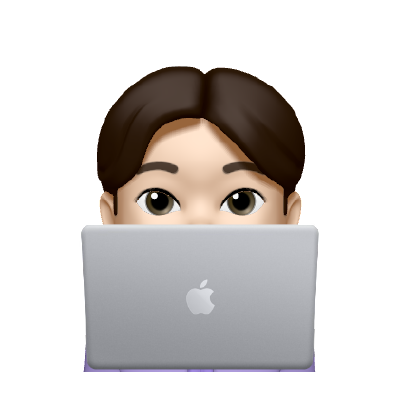
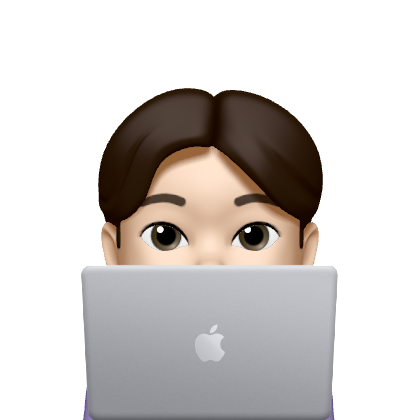
updated hero

Changed region(s): [[0.18, 0.15, 0.81, 1.0], [0.45, 0.69, 0.54, 0.87]]

diff --git a/index.html b/index.html
@@ -10,7 +10,7 @@
     
 
     <!-- Favicons -->
-    <link
+    <!-- <link
       rel="apple-touch-icon"
       sizes="180x180"
       href="assets/icons/apple-touch-icon.png"
@@ -20,7 +20,7 @@
       type="image/png"
       sizes="32x32"
       href="assets/icons/favicon-32x32.png"
-    />
+    /> -->
 
     <!-- Animate CSS CDN -->
     <link
@@ -28,7 +28,7 @@
       href="https://cdnjs.cloudflare.com/ajax/libs/animate.css/4.1.1/animate.min.css"
     />
 
-    <title>Jeremy Lee | Student</title>
+    <title>Jeremy Lee | Student </title>
     <link
       rel="shortcut icon"
       href="https://assets.stickpng.com/images/58e383a9204d556bbd97b149.png"
@@ -51,12 +51,49 @@
 
     <!-- Hero Section -->
     <section class="hero" id="about">
-      <div class="fade-text-from-left">
-        <msg>HI THERE 👋 I'M</msg>
-        <h1>Jeremy Lee</h1>
-        <h3 style="padding-top: 20px;">STUDENT 👨🎓 + DEVELOPER 👨💻</h3>
-        <p >I'm a creative thinker, passionate to learn more about UX/UI and Product Design!</p>
-      </div>
+      <section class="hero-left">
+        <div class="fade-text-from-left">
+          <div>
+            <msg>HELLO! </msg>
+            <img 
+              src="assets/images/wave.png" 
+              alt="wave animation"
+              loading="lazy"
+              class="wave-animation"
+            />
+              
+            <msg> I'M</msg>
+          </div>
+          
+          <h1>Jeremy Lee</h1>
+          <h3 style="padding-top: 20px; font-size: 20px">STUDENT 👨🎓 + DEVELOPER 👨💻</h3>
+          <!-- <div>
+            <msg>STUDENT </msg>
+            <img 
+              src="assets/images/student.png" 
+              alt="student emoji"
+              loading="lazy"
+              class="profession-emojis"
+            />
+              
+            <msg>DEVELOPER</msg>
+            <img 
+              src="assets/images/laptop.png" 
+              alt="developer emoji"
+              loading="lazy"
+              class="profession-emojis"
+            />
+          </div> -->
+          <p >I'm a creative thinker 🧠, passionate to learn about UX/UI 📱 and Product Design 🧪!</p>
+        </div>
+        <div class="hero-social-links">
+          <h3>yes</h3>
+          <h3>yes</h3>
+
+          <h3>yes</h3>
+
+        </div>
+      </section>
       <img
         src="assets/images/memoji.png"
         alt="pic of me"
@@ -65,7 +102,7 @@
       />
     </section>
 
-    <section class="hero">
+    <!-- <section class="hero">
       <div class="bio">
         <h2 class="bio-title">About Me</h2>
         <p class="bio-text">
@@ -119,7 +156,7 @@
           <li>More experience :)</li>
         </ul>
       </div>
-    </section>
+    </section> -->
     <!-- More about -->
 
     <!-- Skills section -->

diff --git a/assets/css/styles.css b/assets/css/styles.css
@@ -70,7 +70,6 @@ nav {
   justify-content: space-between;
   padding: 1.5rem 3.5rem;
   background-color: var(--nav-bg-color);
-  box-shadow: 0 3px 5px rgba(0, 0, 0, 0.1);
 }
 
 nav h1 {
@@ -142,12 +141,40 @@ msg {
   font-family: var(--nav-link-font);
 }
 
+
+
+.hero-social-links {
+  display: flex;
+  gap: 1rem;
+  padding-top: 10px;
+  animation: fadeIn 3s ease-out;
+}
+
+.wave-animation {
+  max-width: 2rem;
+  max-height: 2rem;
+}
+
+.hero .profession-emojis {
+  max-width: 1.75rem;
+  max-height: 1.75rem;
+  bottom: 0;
+}
+
 .fade-text-from-left {
   position: relative;
   white-space: nowrap;
   animation: fadeIn 6s ease-out, example 3s forwards;
   font-family: var(--nav-link-font);
+}
 
+.fade-text-from-left h3 {
+  font-size: 15px;
+  white-space: nowrap;
+}
+
+.fade-text-from-left msg {
+  font-size: 20px;
 }
 
 .fade-text-from-left p {
